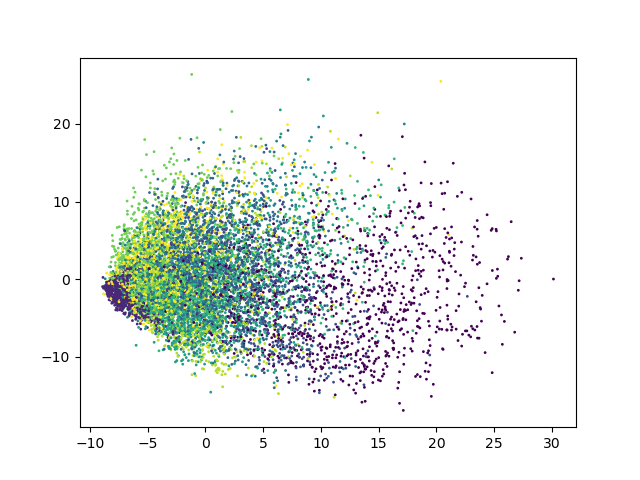
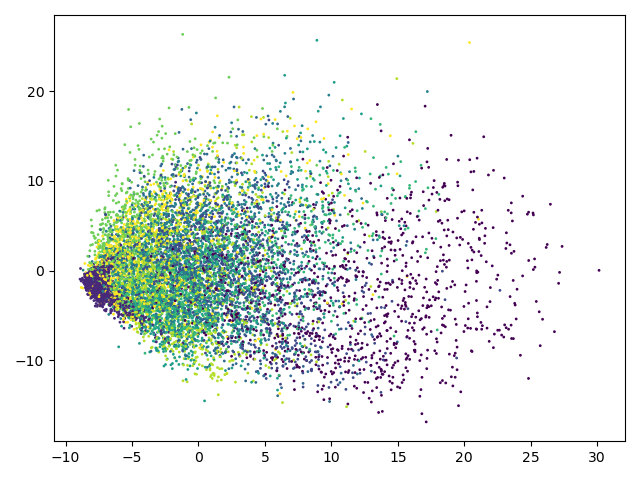
feat: finalize code for presentation

diff --git a/main.py b/main.py
@@ -1,5 +1,5 @@
 # Created by Baole Fang at 2/15/23
-
+import os
 from typing import Callable
 
 from sklearn.metrics import pairwise_distances
@@ -168,13 +168,14 @@ def plot(accuracy: np.ndarray, label: str, base: int = 0, batch: int = 3) -> Non
     plt.legend()
 
 
-def pipeline(dataset: Dataset, model: BaseEstimator, query: Callable, label: str, base: int = 100, samples: int = 900,
+def pipeline(dataset: Dataset, model: BaseEstimator, query: Callable, name: str, label: str, base: int = 100, samples: int = 900,
              batch: int = 1, n: int = 1) -> None:
     """
     Train model in active learning with query strategy given dataset Output the accuracy to filename.
     :param dataset: Dataset.
     :param model: Base model in sklearn.
     :param query: Query strategy.
+    :param name: Model config name.
     :param label: Method label.
     :param base: The number of base training points.
     :param samples: The number of training points to be sampled.
@@ -187,25 +188,29 @@ def pipeline(dataset: Dataset, model: BaseEstimator, query: Callable, label: str
     train_x, test_x, train_y, test_y = dataset.get()
     for i in range(n):
         print('{}: round {}'.format(label, i + 1))
-        train_x, train_y = shuffle(train_x, train_y)
+        train_x, train_y = shuffle(train_x, train_y, random_state=2023+i)
         accuracy = learning(train_x, train_y, test_x, test_y, model, query, base, samples, batch)
         acc.append(accuracy)
     acc = np.array(acc)
-    np.save('save/{}-{}-{}-{}.npy'.format(label, base, samples, batch), acc)
+    np.save('save/{}/{}-{}-{}-{}.npy'.format(name,label, base, samples, batch), acc)
     plot(acc, label, base, batch)
 
 
 if __name__ == '__main__':
     dataset = Dataset()
-    dataset.plot('data.png')
 
-    config = {'C': 100, 'kernel': 'poly', 'degree': 3, 'probability': True}
+    # config = {'C': 100, 'kernel': 'poly', 'degree': 3, 'probability': True}
+    config = {'probability': True}
+    config_name='default'
 
-    pipeline(dataset, SVC(**config), random_sampling, 'passive', 100, 900, 10, 3)
-    pipeline(dataset, SVC(**config), uncertainty_sampling, 'uncertainty', 100, 900, 10, 3)
-    pipeline(dataset, SVC(**config), diversity_sampling, 'diversity', 100, 900, 10, 3)
-    pipeline(dataset, SVC(**config), density_sampling, 'density', 100, 900, 10, 3)
+    if not os.path.exists(os.path.join('save',config_name)):
+        os.makedirs(os.path.join('save',config_name))
+
+    pipeline(dataset, SVC(**config), random_sampling, config_name, 'passive', 100, 900, 10, 3)
+    pipeline(dataset, SVC(**config), uncertainty_sampling, config_name, 'uncertainty', 100, 900, 10, 3)
+    pipeline(dataset, SVC(**config), diversity_sampling, config_name, 'diversity', 100, 900, 10, 3)
+    pipeline(dataset, SVC(**config), density_sampling, config_name, 'density', 100, 900, 10, 3)
     # pipeline(dataset, SVC(**config), minimize_expected_risk, 'min_exp_risk', 100, 900, 10, 3)
-
-    plt.savefig('result.png')
+    plt.tight_layout()
+    plt.savefig('result_{}.png'.format(config_name))
     plt.close()

diff --git a/data.py b/data.py
@@ -4,6 +4,7 @@ from sklearn.datasets import fetch_openml
 from sklearn.model_selection import train_test_split
 from sklearn.preprocessing import StandardScaler
 from sklearn.decomposition import PCA
+from sklearn.cluster import KMeans
 import matplotlib.pyplot as plt
 import numpy as np
 
@@ -45,7 +46,7 @@ class Dataset:
         '''
         return self.train_x, self.test_x, self.train_y, self.test_y
 
-    def plot(self, filename, y=None) -> None:
+    def plot(self, filename: str, y:np.ndarray=None) -> None:
         '''
         Plot the dataset.
         :param filename: The filename of the figure.
@@ -61,5 +62,36 @@ class Dataset:
         if self.visual_flag:
             x = self.model.fit_transform(x)
         plt.scatter(x[:, 0], x[:, 1], s=1, c=y.astype('int'))
+        plt.title(filename.rstrip('.png'))
+        plt.tight_layout()
         plt.savefig(filename)
         plt.close()
+
+    def kmeans(self, filename: str, n: int=10) -> None:
+        '''
+        Plot kmeans clustering result of the dataset.
+        :param filename: The filename of the figure.
+        :param n: The number of clusters.
+        :return: None.
+        '''
+        x = self.test_x
+        if self.visual_flag:
+            x = self.model.fit_transform(x)
+        if self.visual_flag:
+            x = self.model.fit_transform(x)
+        cluster = KMeans(n_clusters=n, random_state=0, n_init="auto")
+        labels = cluster.fit_predict(self.test_x)
+        u_labels = np.unique(labels)
+        for i in u_labels:
+            plt.scatter(x[labels == i, 0], x[labels == i, 1], label=i, s=1)
+        plt.title(filename.rstrip('.png'))
+        plt.tight_layout()
+        plt.savefig(filename)
+        plt.close()
+
+
+if __name__ == '__main__':
+    dataset = Dataset()
+    dataset.plot('classes.png')
+    dataset.kmeans('kmeans.png')
+

diff --git a/replot.py b/replot.py
@@ -1,0 +1,25 @@
+# Created by Baole Fang at 4/23/23
+
+import os
+import numpy as np
+from main import plot
+import matplotlib.pyplot as plt
+
+def replot(path,start,end):
+    lst=[os.path.join(path,name) for name in os.listdir(path)]
+    lst.sort(key=os.path.getmtime)
+    for filename in lst:
+        acc=np.load(filename)
+        acc=acc[:,start:end]
+        label, base, samples, batch=os.path.basename(filename).rstrip('.npy').split('-')
+        plot(acc, label, int(base)+start*int(batch), int(batch))
+
+
+if __name__ == '__main__':
+    root='save/opt'
+    start=60
+    end=80
+    replot(root,start,end)
+    plt.tight_layout()
+    plt.savefig('result_opt_{}_{}.png'.format(start,end))
+    plt.close()
